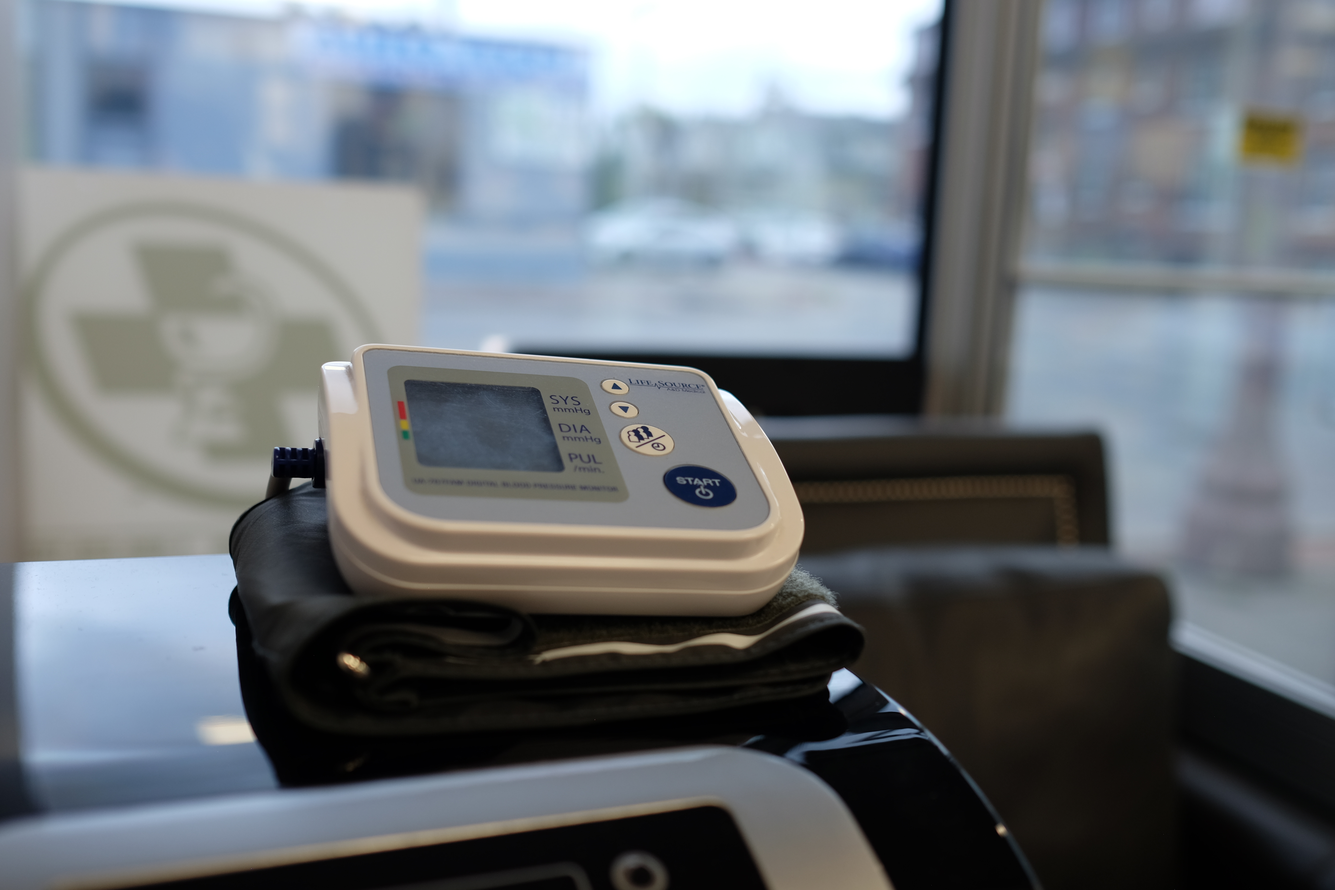
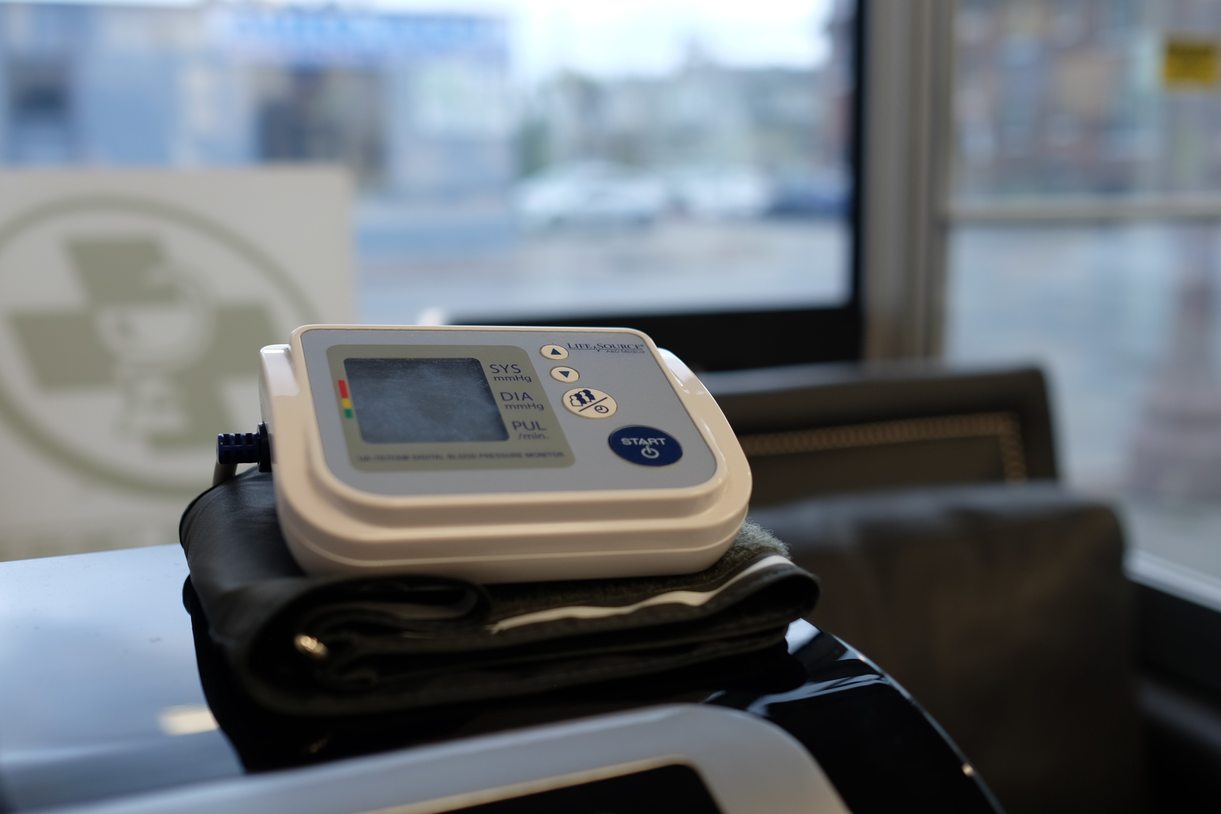
fixed rph image format

diff --git a/about.html b/about.html
@@ -127,9 +127,8 @@
                             <img src="assets/images/AK.jpg" alt="Pharmacist, Amar">
                             <figcaption data-i18n="ak-caption">Amar, Pharmacist</figcaption>
                         </figure>
-                        <p data-i18n="ak-desc">[description; occupation, credentials, goals and outside work personality]</p>
+                        <p data-i18n="ak-desc">Amar is a dedicated pharmacist at Medica Pharmacy. He started his pharmacy career over a decade ago before joining Medica in 2019, not long after it opened. Amar has always been committed to supporting patients with their health needs and continues to bring that same dedication to the Medica team every day. </p>
                     </div>
-
                     <div class="rph">
                         <figure>
                             <img src="assets/images/JI.jpg" alt="Pharmacist, Jermey">
@@ -155,7 +154,7 @@
                         <br/>
                         These courts were built by the owner of Medica Pharmacy, Francesco Vella, as a way to improve the east end of Erie Street and create a space that brings people together from all over. Whether you're joining in on a game or just stopping by for ice cream from across the street, you're always welcome to hang out at the courts and enjoy the atmosphere.
                     </p>
-                    <img src="assets/images/Bocce2.JPG" width="500" height="300" alt="Medica Bocce Courts">
+                    <img src="assets/images/Bocce.JPG" width="500" height="300" alt="Medica Bocce Courts">
                 </div>
             </section>
         </div>

diff --git a/services.html b/services.html
@@ -151,7 +151,7 @@
                     <h2 data-i18n="service3">Blood Pressure Readings</h2>
                     <article class="services-article">                    
                         <p class="desc" data-i18n="service3-desc">All patients are welcome to stop by the pharmacy to use our blood pressure monitoring equipment at their leisure.  In addition, our pharmacists will help understand these blood pressure readings and make lifestyle recommendations to achieve patient goals.</p>
-                        <img src="assets/images/consult.jpg" alt="Blood Pressure Readings" >
+                        <img src="assets/images/BPM.JPG" alt="Blood Pressure Readings" >
                     </article>
                 </div>
 
@@ -224,7 +224,7 @@
                             <br>
                             Call ahead to schedule a fitting at your convenience.
                         </p>
-                        <img src="assets/images/consult.jpg" alt="Compression Stockings and Socks" >
+                        <img src="assets/images/Socks.JPG" alt="Compression Stockings and Socks" >
                     </article>
                 </div> 
 

diff --git a/assets/css/media.css b/assets/css/media.css
@@ -80,6 +80,11 @@
     #open-sidebar-button, #close-sidebar-button {
         display: block;
     }  
+
+    /* ABOUT US PAGE */
+    .bocce img {
+        height: auto;
+    }
 }
 
 @media screen and (min-width:800px) {  /* 800 and up, align drop down icon with header */
@@ -231,9 +236,7 @@
     footer {
         padding-inline: 15vw;
     }
-    .rph {
-        display: flex;
-    } 
+    
     .bocce {
         display: flex;
         justify-content: space-around;
@@ -244,7 +247,8 @@
 
     /* ABOUT US PAGE */
     .rph-container p {
-        max-width: 50%;
+        margin-inline: 3rem;
+        text-align: left;
     }
 }
 

diff --git a/assets/css/pages/about.css b/assets/css/pages/about.css
@@ -13,7 +13,7 @@
 
 .rph p {
     max-width: 100%;
-    margin: 1rem ;
+    margin: 0.5rem ;
 }
 
 .rph img {
@@ -32,6 +32,6 @@
     display: block;
     margin: 0 auto;
     max-width: 100%;
-    height: auto;
+    /* height: auto; */
     border-radius: 5px; 
 }
